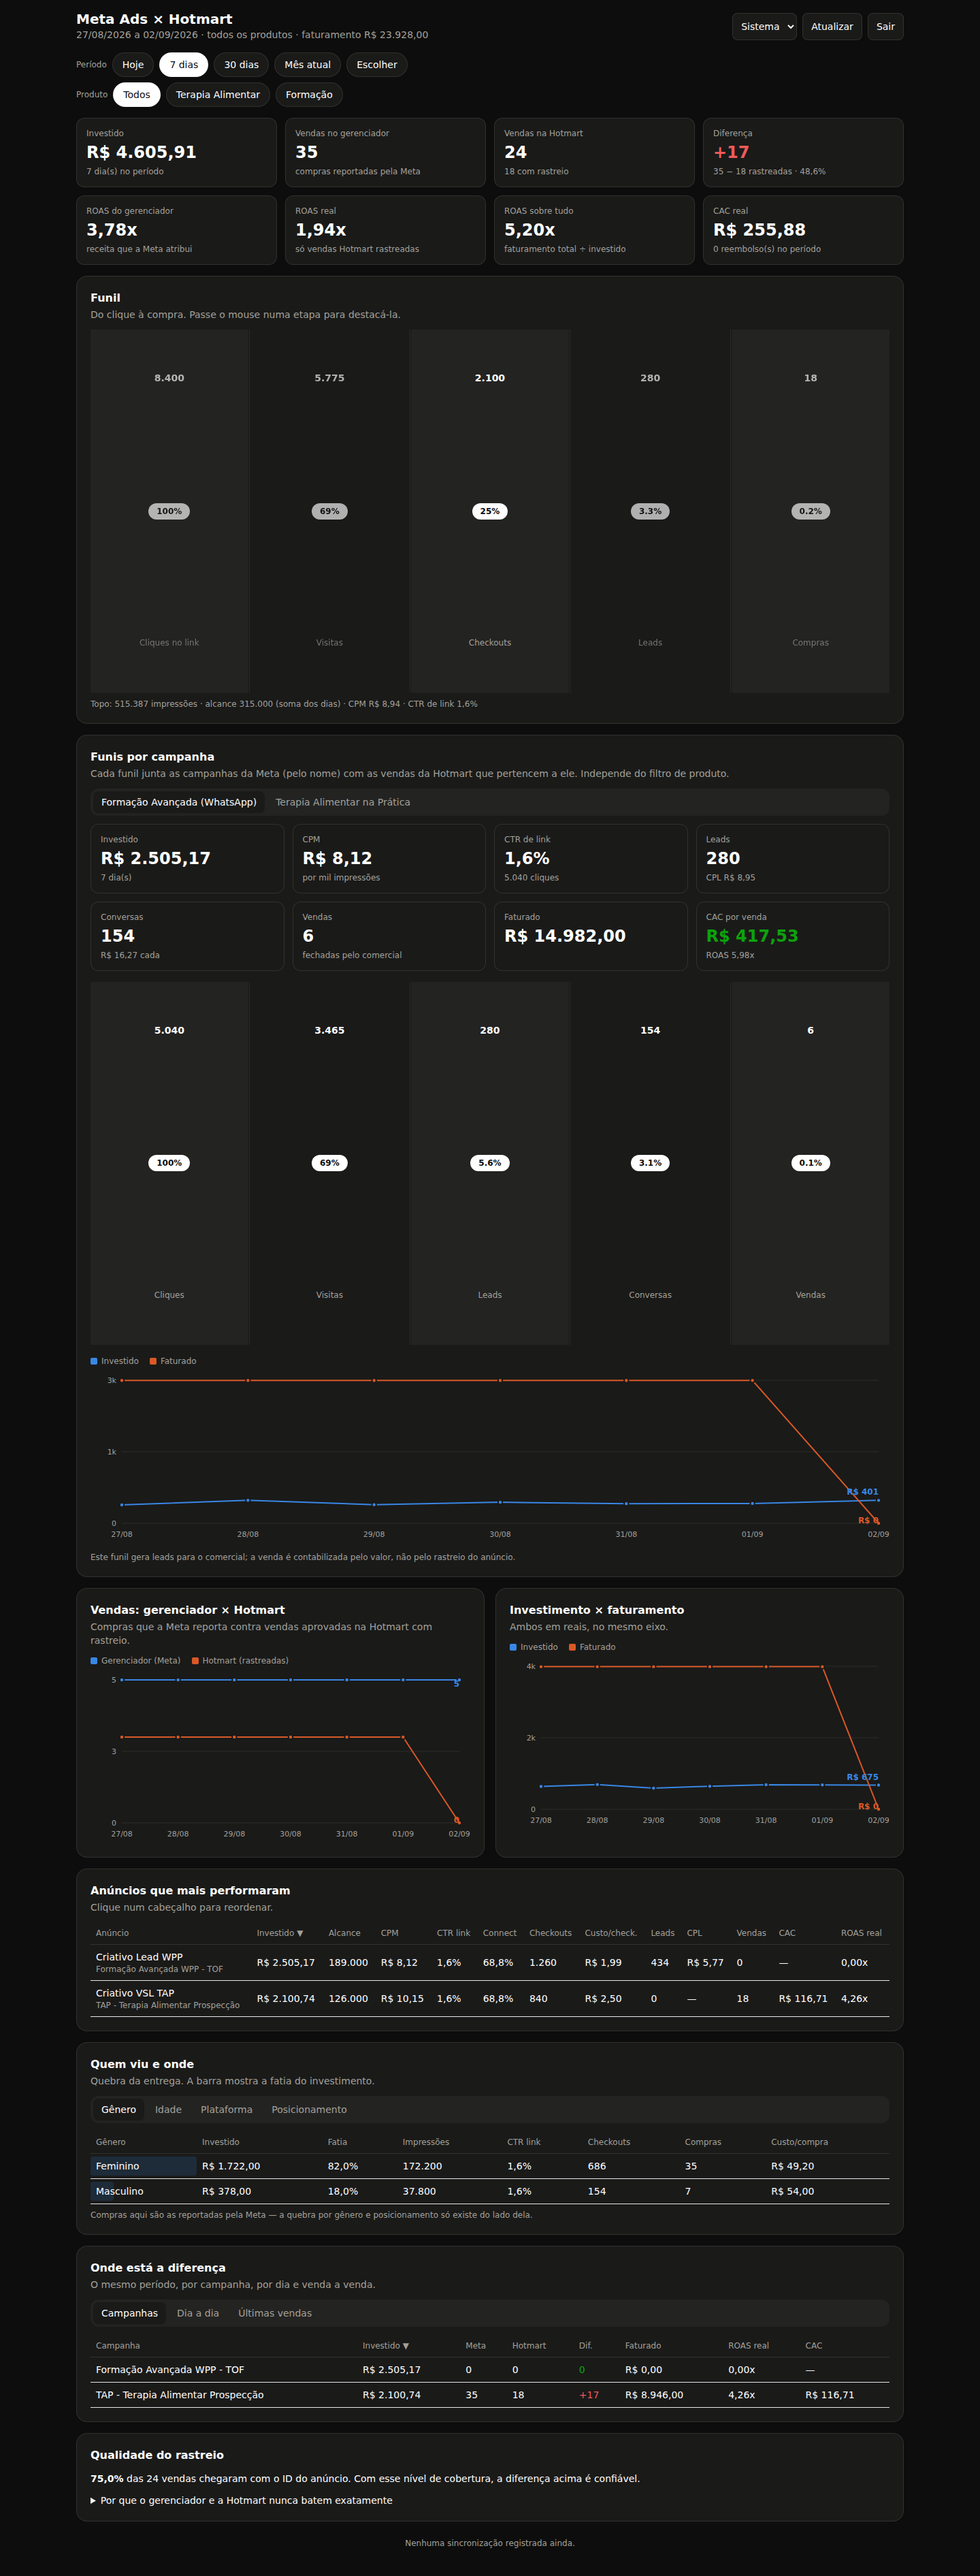
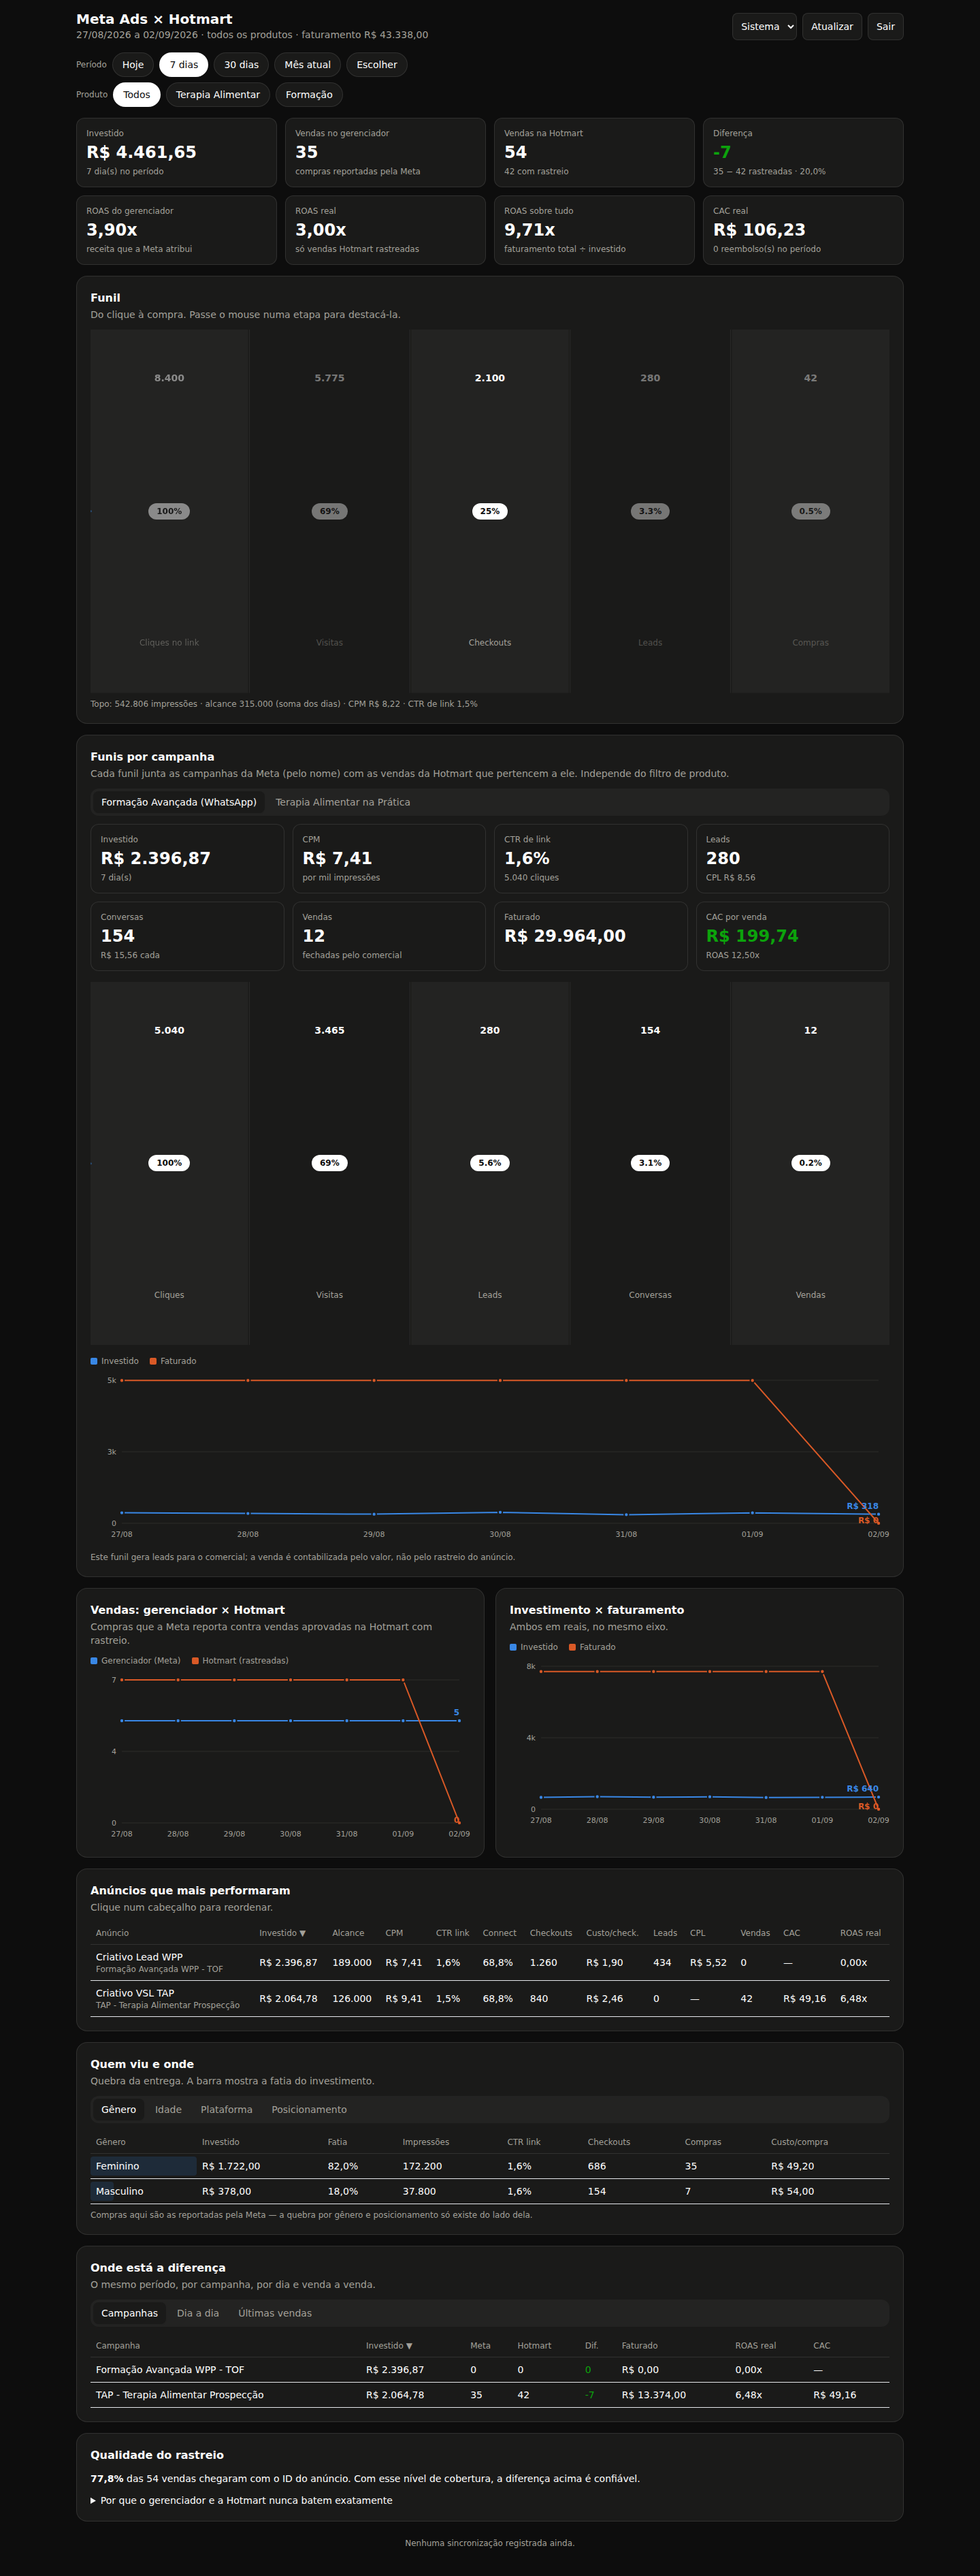
Funil: refaz a arte para seguir o componente (piso de altura + degradê)
Com dados reais de anúncio o funil afunilava de forma extrema e as últimas
etapas viravam uma linha reta, perdendo a silhueta de funil do componente.

- FunnelChart: props opcionais heightFloor/heightCurve que ajustam APENAS a
  silhueta (os valores e as % dos rótulos continuam reais). Retrocompatível.
- FunnelVisual: heightFloor 0.16 + heightCurve 0.5 (raiz), mantendo o degradê
  sequencial por etapa. Agora o funil mantém o formato até o gargalo final.
- Screenshots atualizados.

Claude-Session: https://claude.ai/code/session_01VdLTZ5Nrub43ck7CFVf6qU

diff --git a/web/src/components/ui/funnel-chart.tsx b/web/src/components/ui/funnel-chart.tsx
@@ -114,6 +114,14 @@ export interface FunnelChartProps {
   labelLayout?: "spread" | "grouped";
   labelOrientation?: "vertical" | "horizontal";
   labelAlign?: "center" | "start" | "end";
+  /**
+   * Piso de altura (0–1) só para a SILHUETA — garante que etapas muito
+   * pequenas continuem visíveis (funil de anúncio afunila de forma extrema).
+   * Os valores e as porcentagens exibidos continuam reais.
+   */
+  heightFloor?: number;
+  /** Curva aplicada à silhueta (1 = linear, <1 comprime; ex.: 0.5 = raiz). */
+  heightCurve?: number;
   grid?:
     | boolean
     | {
@@ -682,6 +690,8 @@ export function FunnelChart({
   labelOrientation,
   labelAlign = "center",
   grid: gridProp = false,
+  heightFloor = 0,
+  heightCurve = 1,
 }: FunnelChartProps) {
   const ref = useRef<HTMLDivElement>(null);
   const [sz, setSz] = useState({ w: 0, h: 0 });
@@ -722,7 +732,14 @@ export function FunnelChart({
 
   const max = first.value;
   const n = data.length;
-  const norms = data.map((d) => d.value / max);
+  // norms controla APENAS a silhueta. O piso/curva mantêm o formato de funil
+  // mesmo quando uma etapa é minúscula; as % dos rótulos usam o valor real.
+  const shape = (v: number) => {
+    const raw = max > 0 ? Math.max(v, 0) / max : 0;
+    const curved = heightCurve === 1 ? raw : Math.pow(raw, heightCurve);
+    return heightFloor + (1 - heightFloor) * curved;
+  };
+  const norms = data.map((d) => shape(d.value));
   const horiz = orientation === "horizontal";
   const { w: W, h: H } = sz;
 

diff --git a/web/src/components/FunnelVisual.tsx b/web/src/components/FunnelVisual.tsx
@@ -39,6 +39,8 @@ export function FunnelVisual({ itens }: { itens: EtapaFunil[] }) {
       grid
       labelLayout="spread"
       staggerDelay={0.1}
+      heightFloor={0.16}
+      heightCurve={0.5}
       formatValue={(v) => nBR(v)}
       formatPercentage={(p) => (p >= 10 ? `${Math.round(p)}%` : `${p.toFixed(1)}%`)}
     />
